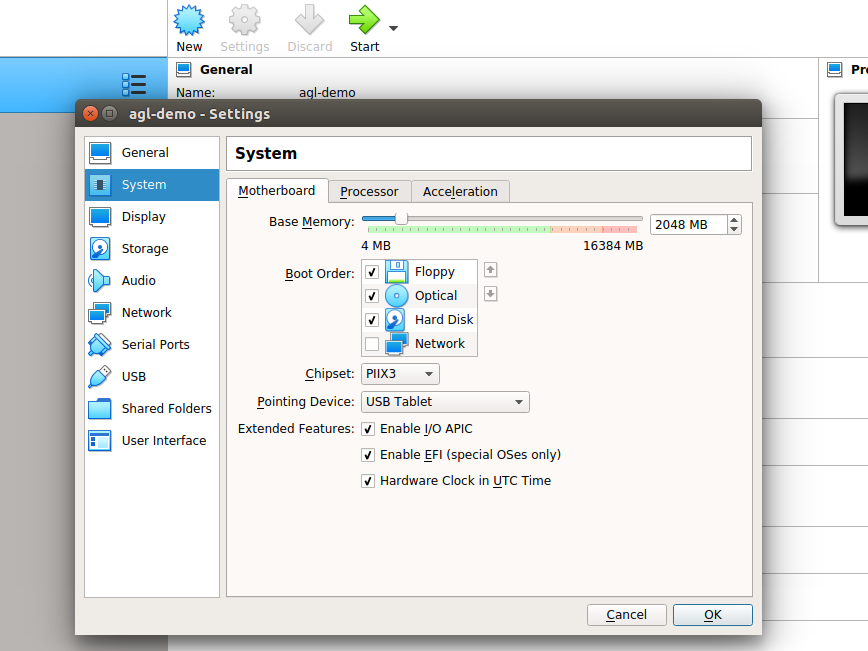
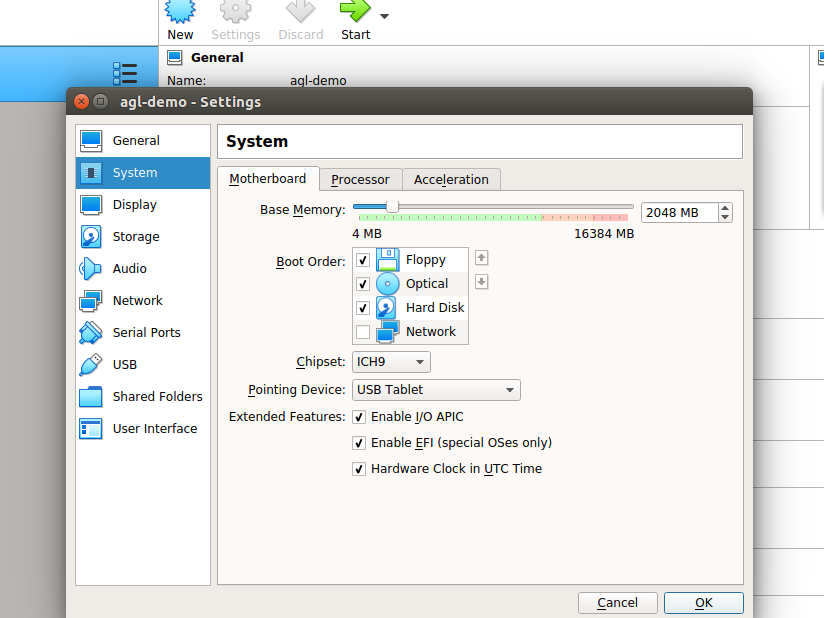
revised quickskstart vbox-ihc9

Changed region(s): [[0.0, 0.0, 1.0, 1.0], [0.9709, 0.9531, 1.0, 0.9838], [0.6068, 0.6149, 0.6371, 0.6456]]

diff --git a/docs/0_Getting_Started/1_Quickstart/Quickstart.md b/docs/0_Getting_Started/1_Quickstart/Quickstart.md
@@ -96,7 +96,7 @@ AGL provides a number of pre-built ready-made images of various versions.
     ![vbox-step-2](images/vbox-2.png)
     - Click on `Use an exsiting virtual hard disk file`, and select the extracted `agl-demo-platform-crosssdk-qemux86-64.wic.vmdk` file, click on `Create`.
     ![vbox-step-3](images/vbox-3.png)
-    - Go to `Settings`, and then into `System`. Check on `Enable EFI (special OSes only)` and click on `OK`.
+    - Go to `Settings`, and then into `System`. Select `Chipset : IHC9`. Check on `Enable EFI (special OSes only)` and click on `OK`.
     ![vbox-step-4](images/vbox-4.png)
     - Click on `Start`.
 
